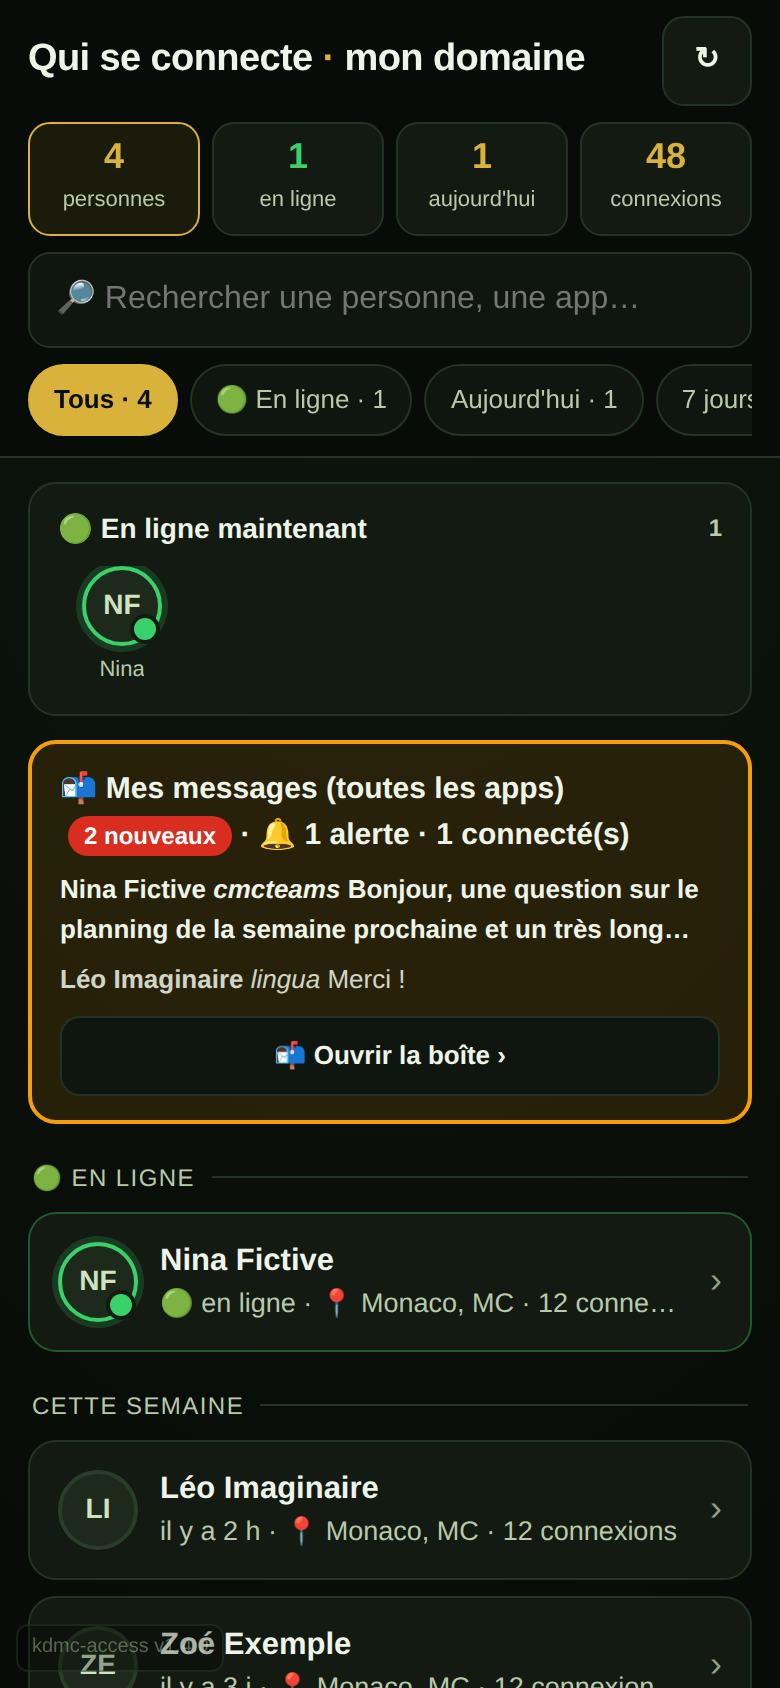
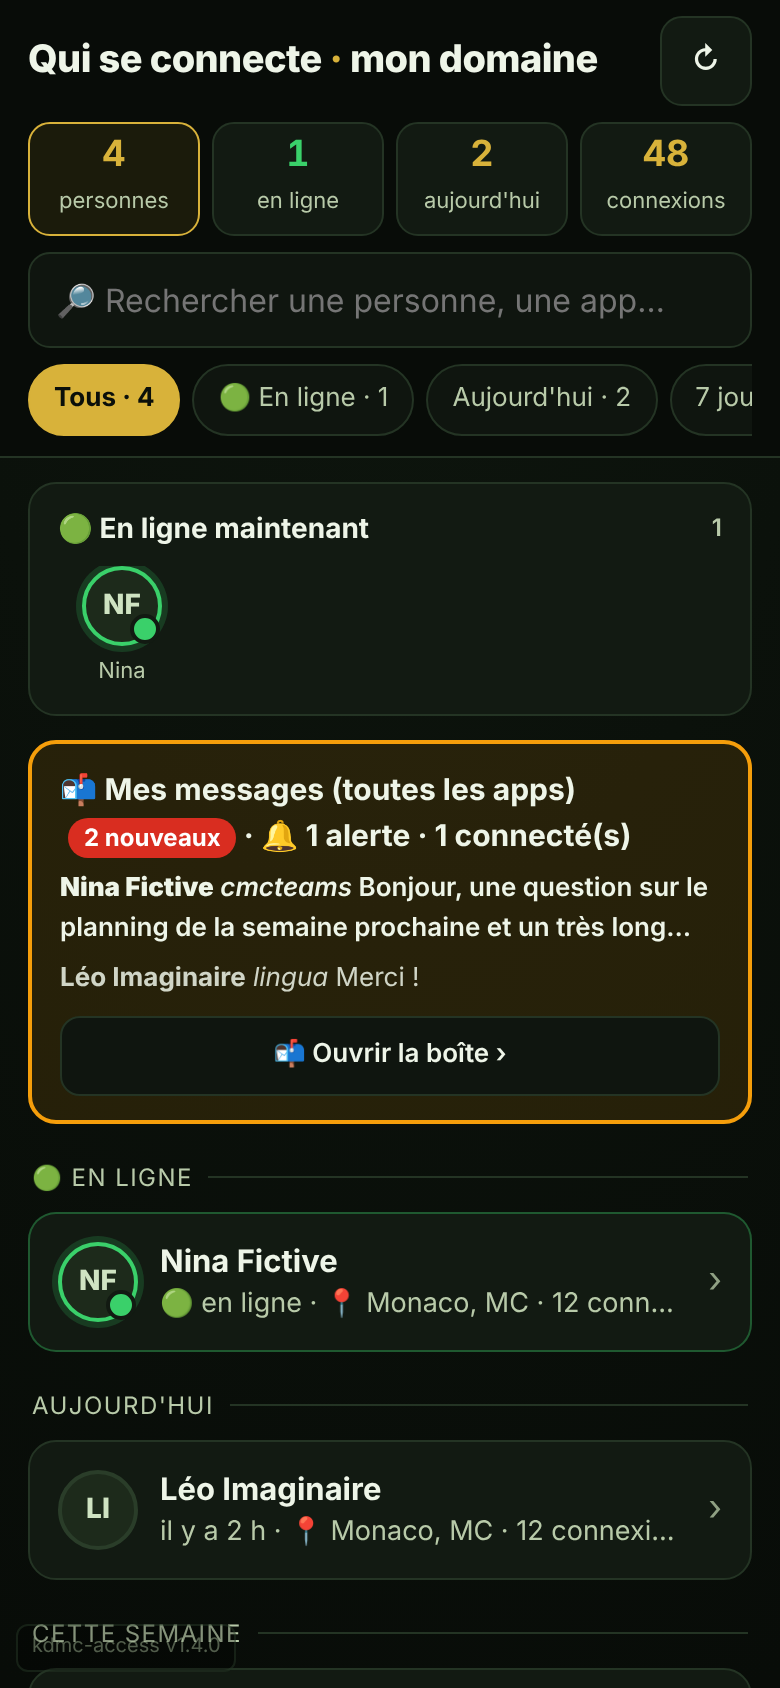
Synchronisation LOCALE depuis le coffre (efbc90774) — sans minutes Actions ; le dépôt public republie le site

diff --git a/messaging-app/index.html b/messaging-app/index.html
@@ -856,7 +856,7 @@ if('serviceWorker' in navigator){
   <div class="splash-logo">💬</div>
   <h1 class="splash-title">APEX CHAT</h1>
   <p class="splash-sub">Messagerie privée sécurisée<br><span style="color:var(--ax-gold-2)">🛡 Chiffrement de bout en bout</span></p>
-  <div id="splash-version" data-ver="v1.1.366" style="color:var(--ax-text-3);font-size:.78em;margin-bottom:20px;font-family:ui-monospace,monospace">v1.1.366</div>
+  <div id="splash-version" data-ver="v1.1.366" style="color:var(--ax-text-3);font-size:.78em;margin-bottom:20px;font-family:ui-monospace,monospace">v1.1.345</div>
   <div id="auth-step" class="splash-form">
     <!-- rempli dynamiquement -->
   </div>
@@ -870,7 +870,7 @@ if('serviceWorker' in navigator){
 
 <header class="topbar h" id="topbar">
   <button class="topbar-btn" onclick="K.toggleMenu()" aria-label="Menu">☰</button>
-  <div class="topbar-title">APEX CHAT <button type="button" class="topbar-ver" id="topbar-version" onclick="K._askForceUpdate()" aria-label="Version de l'app — toucher pour forcer la mise à jour">v1.1.366</button></div>
+  <div class="topbar-title">APEX CHAT <button type="button" class="topbar-ver" id="topbar-version" onclick="K._askForceUpdate()" aria-label="Version de l'app — toucher pour forcer la mise à jour">v1.1.360</button></div>
   <span class="connected" id="conn-status">●</span>
   <button class="topbar-btn" onclick="K.openInvite()" aria-label="Inviter">📤</button>
 </header>

diff --git a/CHANGELOG.md b/CHANGELOG.md
@@ -4,6 +4,11 @@ Historique complet des versions. Les 5 dernières versions restent dans `CLAUDE.
 
 ---
 
+## light v1.151 — Les élèves absents tout le mois gardent leur fond bleu en vrai Chrome (2026-11-17)
+- pc-config (pont 2584) : dans le vrai Chrome de Kevin, la light peignait 1 à 5 noms de moins par mois que le PDF (ex. SEGGIARO J, ORRADO F, MARCHI T, CELLARIO T, MACCARIO S, DEHAENE J, REYNIER M). Cause : une personne absente tout le mois (Congés / Maladie) n'existe que dans un tableau d'absence du PDF ; `buildBoardsFromState` (état vivant Firebase / `cmc_e`) ne reprenait que les personnes déjà présentes dans une équipe, donc elle disparaissait du rendu vivant. Le garde hors ligne de v1.150 lisait `DEPARTS_GEN` directement et ne pouvait pas le voir.
+- Correctif : `buildBoardsFromState` recrée, depuis le PDF généré, les personnes absentes tout le mois dans leur tableau d'absence (codes, `fond`, ordre du PDF conservés).
+- Garde `tests/verify-light-fond-bleu-live.mjs` (`npm run test:light-fond-live` + `test:light-fond-live-sabotage`, dans `test:ci`) : simule l'état vivant sans les personnes absentes, rend chaque mois, compte les noms peints en bleu contre le PDF. v1.151 : 10 ok / 0 ko ; v1.150 : 4 ok / 6 ko ; `SABOTAGE=1` : 4 ok / 6 ko.
+
 ## Apex Chat v1.1.366 — Panneau admin, Réglages et fiches personnes rangés par usage (2026-11-17)
 - Kevin 17.11 : « tableaux de bord, la mise à jour et l'UI/UX, tout beaucoup plus clair, range intelligemment, les fiches personnes aussi ». Mesuré avant (captures 390 px) : panneau admin = 16 tuiles égales aux sigles obscurs (DIAG, TEST, LIVE, MAP, +, SMS✕, ON/OFF, LOG, €, —) et un bloc « Architecture (Mode A) » ; Réglages = 43 lignes en une seule liste, la mise à jour noyée au milieu (« Diagnostic MAJ ») ; carte personne = « Jamais connecté » partout et un bouton 📇 sans mot.
 - Maintenant : panneau admin en 3 sections (Les personnes · Surveiller · Régler et envoyer), chaque ligne dit à quoi elle sert, pastille seulement quand elle compte (signalements > 0, mémoire ≥ 85 %), détails techniques repliés ; Réglages en 10 thèmes, « Version et mise à jour » EN PREMIER (« Vérifier la mise à jour ») ; carte personne : nom complet, @pseudo, « Vu il y a 3 h », bouton « 📇 Fiche » 44 px ; fiche contact : « Modifier la fiche » et « Mon surnom » repliables, plus d'identifiant brut. Aucune action retirée (16 + 43 + 12 champs prouvés).
